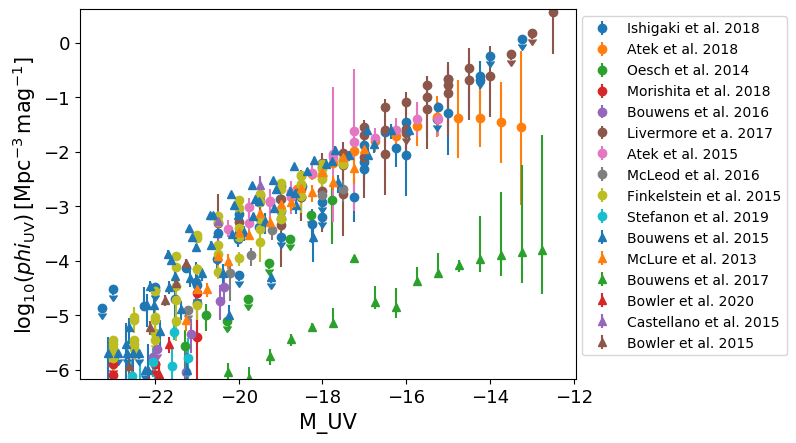
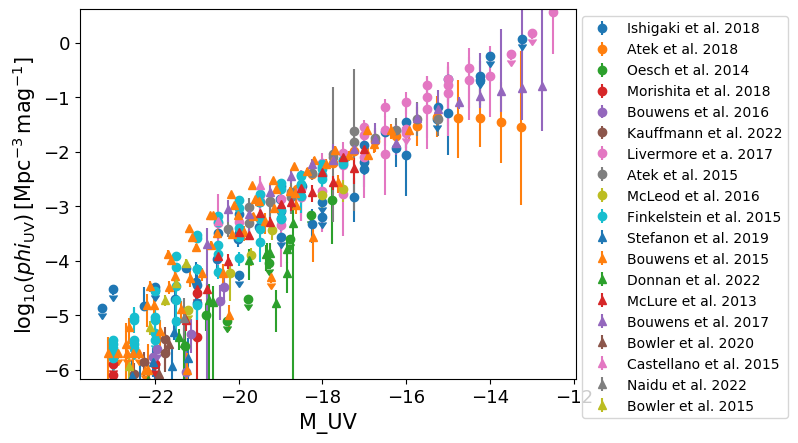
update docs

diff --git a/docs/datarst/UV_luminosity_function.rst b/docs/datarst/UV_luminosity_function.rst
@@ -56,6 +56,12 @@ Data sources
 
    <a href="https://iopscience.iop.org/article/10.3847/2041-8205/818/1/L3" target="_blank">Castellano et al. 2015</a>
 
+|Donnan et al. 2022|
+
+.. |Donnan et al. 2022| raw:: html
+
+   <a href="https://arxiv.org/pdf/2207.12356.pdf" target="_blank">Donnan et al. 2022</a>
+
 |Finkelstein et al. 2015|
 
 .. |Finkelstein et al. 2015| raw:: html
@@ -67,6 +73,12 @@ Data sources
 .. |Ishigaki et al. 2018| raw:: html
 
    <a href="https://iopscience.iop.org/article/10.3847/1538-4357/aaa544" target="_blank">Ishigaki et al. 2018</a>
+
+|Kauffmann et al. 2022|
+
+.. |Kauffmann et al. 2022| raw:: html
+
+   <a href="https://arxiv.org/pdf/2207.11740.pdf" target="_blank">Kauffmann et al. 2022</a>
 
 |Livermore et a. 2017|
 
@@ -91,6 +103,12 @@ Data sources
 .. |Morishita et al. 2018| raw:: html
 
    <a href="https://iopscience.iop.org/article/10.3847/1538-4357/aae68c" target="_blank">Morishita et al. 2018</a>
+
+|Naidu et al. 2022|
+
+.. |Naidu et al. 2022| raw:: html
+
+   <a href="https://arxiv.org/pdf/2207.09434.pdf" target="_blank">Naidu et al. 2022</a>
 
 |Oesch et al. 2014|
 

diff --git a/docs/datarst/mass_metallicity_relation.rst b/docs/datarst/mass_metallicity_relation.rst
@@ -8,6 +8,12 @@ Gas-phase O/H metallicity as function of galaxy stellar mass
 Data sources
 ^^^^^^^^^^^^
 
+|Curti et al. 2022|
+
+.. |Curti et al. 2022| raw:: html
+
+   <a href="https://arxiv.org/pdf/2207.12375" target="_blank">Curti et al. 2022</a>
+
 |Faisst et al. 2016|
 
 .. |Faisst et al. 2016| raw:: html
